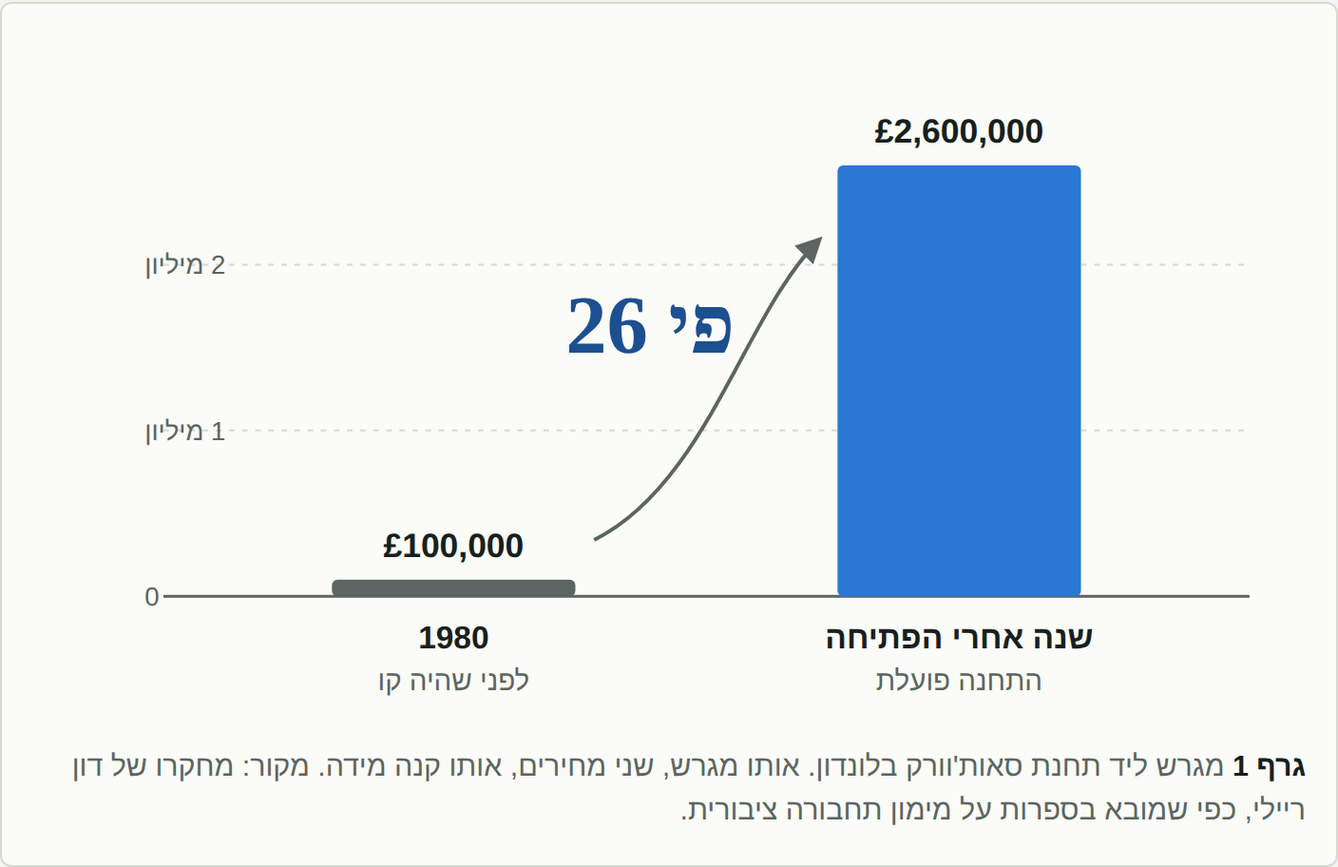
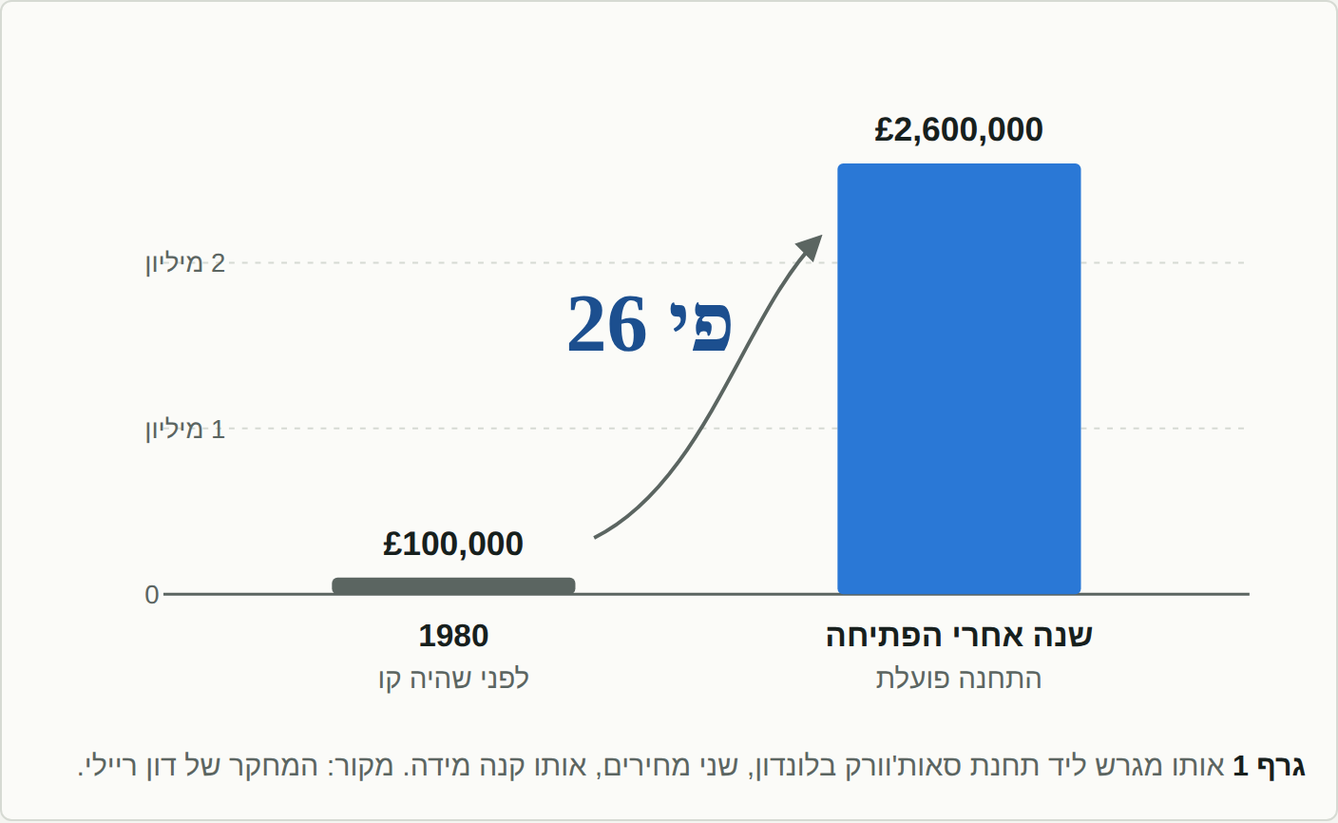
Rewrite Freiman article in a conversational voice; add voice rules to template
Claude-Session: https://claude.ai/code/session_017RskjQZSoGETticZoF5yfs

diff --git a/projects/freiman/article.html b/projects/freiman/article.html
@@ -38,7 +38,7 @@ p { margin: 0 0 1.1rem; }
 a { color: var(--metro-ink); text-decoration-thickness: 2px; text-underline-offset: 3px; }
 a:focus-visible { outline: 2px solid var(--metro); outline-offset: 2px; }
 strong { font-weight: 700; }
-ol { padding-inline-start: 1.4rem; margin: 0 0 1.2rem; display: grid; gap: .5rem; }
+ol, ul { padding-inline-start: 1.4rem; margin: 0 0 1.2rem; display: grid; gap: .5rem; }
 ol li::marker { font-family: var(--font-display); font-weight: 700; color: var(--metro-ink); }
 figure { margin: 2rem 0; background: var(--paper); border: 1px solid var(--rule); border-radius: 6px; padding: 1rem; }
 .fig-scroll { overflow-x: auto; }
@@ -87,8 +87,8 @@ svg text { font-family: var(--font-body); fill: var(--ink); }
 <main class="wrap" dir="rtl" lang="he">
   <div class="kicker">נדל"ן · קרקעות להשקעה</div>
   <h1>האדמה שחיכתה לרכבת: מה באמת קורה במתחם פריימן בראשון לציון</h1>
-  <p class="lede">שטח שסומן במשך שנים כאזור נופש, שתי תחנות מטרו מאושרות ותוכנית לכ־12,000 דירות. מה צריך לדעת לפני שקונים שם מטר, ולמה השאלה החשובה היא בכלל לא "איפה".</p>
-  <p>דון ריילי היה איש עסקים לונדוני שהחזיק נכסים בסאות'וורק, רובע בגדה הדרומית של התמזה שבמשך שנים אף אחד לא התרגש ממנו. ב־1999 נפתחה שם תחנה חדשה של קו ג'ובילי, וריילי גילה שהוא עשיר יותר. הרבה יותר.</p><p>ואז הוא עשה משהו שאנשי נדל"ן כמעט אף פעם לא עושים. הוא ישב וכתב ספר שלם שמסביר למה זה לא הוגן.</p><p>בין הדוגמאות שאסף: מגרש ליד התחנה בסאות'וורק, שנקנה ב־1980 ב־100 אלף ליש"ט. שנה אחרי שהקו נפתח, הוא נמכר ב־2.6 מיליון. פי 26. הטענה של ריילי הייתה פשוטה: משלמי המסים בנו את הקו, ובעלי הקרקע לקחו את הכסף.</p><figure id="fig1"><div class="fig-scroll">
+  <p class="lede">שתי תחנות מטרו, כ־12,000 דירות, ושטח שעד לא מזמן סומן כמקום לפיקניקים. כל מה שחבר שמבין בקרקעות היה מספר לכם על פריימן, לפני שאתם קונים שם מטר אחד.</p>
+  <p>בואו נתחיל דווקא בלונדון, כי שם הסיפור הזה כבר נגמר, ואפשר לראות איך.</p><p>בסוף שנות התשעים חי שם איש עסקים בשם דון ריילי, שהחזיק כמה נכסים בסאות'וורק. אם לא שמעתם על סאות'וורק, זה בסדר גמור. גם רוב הלונדונים לא ממש התעניינו בה בזמנו. רובע בגדה הדרומית של התמזה, מהסוג שעוברים דרכו בדרך למקום אחר.</p><p>ואז, ב־1999, נפתחה שם תחנה חדשה של קו ג'ובילי. וריילי, בלי להזיז אצבע, גילה שהוא עשיר. ממש עשיר.</p><p>רוב האנשים במצב כזה היו פותחים שמפניה. ריילי עשה משהו הרבה יותר מוזר: הוא ישב וכתב ספר שלם שמסביר למה זה לא הוגן. משלמי המסים שילמו על הקו, הוא טען, ובעלי הקרקע, כמוהו, לקחו את הרווח. אדם שמתלונן על זה שהוא התעשר. רק באנגליה.</p><p>בין הדוגמאות שהביא בספר היה מגרש אחד ליד התחנה. ב־1980 הוא נקנה ב־100 אלף ליש"ט. שנה אחרי שהקו נפתח, מישהו שילם עליו 2.6 מיליון. פי 26, על אותה חתיכת אדמה.</p><figure id="fig1"><div class="fig-scroll">
 <svg class="fit" viewBox="0 0 680 370" role="img" aria-labelledby="f1t">
   <title id="f1t">מגרש ליד תחנת סאות'וורק: 100 אלף ליש"ט ב־1980, 2.6 מיליון ליש"ט שנה אחרי פתיחת הקו</title>
   <line class="grid" x1="70" x2="650" y1="211.5" y2="211.5"/><text class="tick" x="60" y="216.5" text-anchor="end">1 מיליון</text><line class="grid" x1="70" x2="650" y1="123.1" y2="123.1"/><text class="tick" x="60" y="128.1" text-anchor="end">2 מיליון</text>
@@ -109,7 +109,7 @@ svg text { font-family: var(--font-body); fill: var(--ink); }
   <path class="arrow" d="M300 270 C 360 240, 380 150, 420 110" marker-end="url(#ah)"/>
   <text class="big" x="330" y="170" text-anchor="middle">פי 26</text>
   <defs><marker id="ah" viewBox="0 0 10 10" refX="8" refY="5" markerWidth="7" markerHeight="7" orient="auto"><path class="ahead" d="M0 0L10 5L0 10z"/></marker></defs>
-</svg></div><figcaption><span class="fig-n">גרף 1</span> מגרש ליד תחנת סאות'וורק בלונדון. אותו מגרש, שני מחירים, אותו קנה מידה. מקור: מחקרו של דון ריילי, כפי שמובא בספרות על מימון תחבורה ציבורית.</figcaption></figure><p>עכשיו, אני יודע. ראשון לציון היא לא לונדון. אין בה ביג בן, ואף תייר עוד לא עצר להצטלם בצומת שלה. אבל לכסף שריילי תיאר לא ממש אכפת איזה מבטא יש לראש העירייה. הכלל עובד בכל שפה: כשהמדינה מניחה מסילה, הקרקע שלידה מתעוררת.</p><p>ובצפון ראשון לציון המדינה אישרה שתי תחנות כאלה. באותו מתחם.</p><p>רק שעל כל סיפור כמו של ריילי יש עשרות אנשים שקנו "קרקע ליד תחנה עתידית" ומחכים עד היום. ההבדל ביניהם הוא לא מזל, וגם לא המרחק מהתחנה. למעשה, בפריימן דווקא מי שקונה הכי קרוב לתחנה עלול לעשות את הטעות הכי יקרה. נגיע לזה.</p><h2>פארק עתידי, עם סימן שאלה גדול</h2><p>כדי להבין למה פריימן מעניין עכשיו, צריך להבין למה הוא היה תקוע עד עכשיו.</p><p>בתוכנית המתאר המחוזית, השטח סומן כאזור נופש מטרופוליני. בתרגום לעברית של יזמים: פארק עתידי. ואף אחד לא ממהר לבנות על פארק עתידי.</p><p>אמנם בתמ"א 35, התוכנית הארצית, השטח כבר הוגדר כ"מרקם עירוני". אבל בין הגדרה על הנייר לבין דירה עם מפתח יש בישראל מרחק שנמדד לפעמים בדורות. "בקרוב" היא אצלנו יחידת זמן גמישה מאוד.</p><h2>שלוש החלטות שהעירו את השטח</h2><p>מה שהשתנה בפריימן הוא רצף של החלטות רשמיות, וכל אחת מהן כבדה מקודמתה.</p><p><strong>מרץ 2022.</strong> עיריית ראשון לציון חותמת על הסכם שיתוף פעולה עם דירה להשכיר, חברה ממשלתית שיש לה סמכויות של יזם תכנוני.</p><p><strong>דצמבר 2024.</strong> החלטת ממשלה. המתחם יקודם כתמ"ל 3015, תוכנית מועדפת לדיור. בפועל זה אומר מסלול מזורז, בעידוד המדינה.</p><p><strong>מאי 2025.</strong> תמ"א 70, תוכנית המתאר הארצית למטרו, מאושרת. והיא גוברת על כל מה שנקבע לפניה.</p><p>מאז, <a href="https://properteam-il.com/project/%D7%A4%D7%A8%D7%99%D7%99%D7%9E%D7%9F/">מתחם פריימן ראשון לציון</a> נמצא רשמית על שולחן התכנון של המדינה.</p><figure id="fig2"><div class="fig-scroll">
+</svg></div><figcaption><span class="fig-n">גרף 1</span> אותו מגרש ליד תחנת סאות'וורק בלונדון, שני מחירים, אותו קנה מידה. מקור: המחקר של דון ריילי.</figcaption></figure><p>ועכשיו אתם בטח שואלים מה הקשר לראשון לציון. אז כן, אני יודע. ראשון לציון היא לא לונדון. אין בה ביג בן, ואת החלפת המשמרות היחידה בעיר רואים בכניסה לקניון.</p><p>אבל לחוק של ריילי לא אכפת איזה מבטא יש לראש העירייה. הוא עובד בכל מקום באותה צורה: המדינה מניחה מסילה, והאדמה שלידה מתעוררת. ובצפון ראשון לציון, בשטח שנקרא מתחם פריימן, המדינה אישרה שתי תחנות מטרו. שתיים. באותו מתחם.</p><p>לפני שאתם רצים לחפש מוכרים, רגע. כי על כל דון ריילי יש בעולם עשרות אנשים שקנו "קרקע ליד תחנה עתידית" ומחכים עד היום. חלקם כבר מחכים בשביל הנכדים. ומה שמבדיל ביניהם הוא לא מזל, וגם לא המרחק מהתחנה. בפריימן, דווקא מי שמתעקש לקנות הכי קרוב לתחנה עלול לעשות את הטעות הכי יקרה.</p><p>אני מבטיח שנגיע לזה. קודם צריך להבין איך הגענו לכאן.</p><h2>פארק, על הנייר</h2><p>הסיבה שבכלל יש היום, באמצע גוש דן, שטח פתוח כזה שאף אחד לא בנה עליו, פשוטה למדי. בתוכנית המחוזית הוא סומן כאזור נופש מטרופוליני. או בשפה של בני אדם: פארק עתידי. ומי בונה על פארק עתידי? אף אחד. אז השטח עמד, והעיר צמחה מסביבו.</p><p>למען ההגינות, בתמ"א 35, התוכנית הארצית, השטח כבר הוגדר כ"מרקם עירוני". אבל מי שמכיר קצת את התכנון בישראל יודע שבין "מרקם עירוני" על הנייר לבין דירה עם מפתח יכולות להתחלף כמה ממשלות. ובקצב שלנו, זה לא לוקח הרבה זמן.</p><p>ואז, בתוך שלוש שנים בערך, משהו זז.</p><h2>שלוש החלטות, ואחת מהן ממש מהירה</h2><p>זה התחיל במרץ 2022, כשעיריית ראשון לציון חתמה על הסכם שיתוף פעולה עם דירה להשכיר. אם השם לא אומר לכם הרבה, תחשבו עליה כעל היזם של המדינה: חברה ממשלתית שיש לה סמכות לקדם תכנון של מתחמים שלמים, במקום לחכות שמישהו אחר יעשה את זה.</p><p>בדצמבר 2024 הגיעה החלטת ממשלה: המתחם יקודם כתמ"ל 3015, תוכנית מועדפת לדיור. "מועדפת" זו לא סתם מחמאה. זה מסלול מזורז, שהמדינה עצמה דוחפת.</p><p>ובמאי 2025 אושרה תמ"א 70, תוכנית המתאר הארצית למטרו. והיא, וזה הפרט החשוב, גוברת על כל מה שנקבע לפניה. כולל הפארק העתידי.</p><p>תסתכלו רגע על הקצב:</p><figure id="fig2"><div class="fig-scroll">
 <svg viewBox="0 0 720 250" role="img" aria-labelledby="f2t">
   <title id="f2t">ציר זמן: הסכם במרץ 2022, החלטת ממשלה בדצמבר 2024, אישור תמ"א 70 במאי 2025. השלב הבא ללא מועד.</title>
   <line class="axis-strong" x1="50" x2="581.4" y1="150" y2="150"/>
@@ -137,7 +137,7 @@ svg text { font-family: var(--font-body); fill: var(--ink); }
   <text class="span" x="268.5" y="220" text-anchor="middle">33 חודשים</text>
   <path class="brace hot" d="M465.3 188 v8 H522.3 v-8"/>
   <text class="span hot-t" x="492.8" y="220" text-anchor="middle">5 חודשים</text>
-</svg></div><figcaption><span class="fig-n">גרף 2</span> ההחלטות שהזיזו את פריימן, על ציר זמן בקנה מידה. מהחלטת הממשלה ועד תמ"א 70 עברו חמישה חודשים.</figcaption></figure><p>שימו לב לקצב. מההסכם עם העירייה ועד החלטת הממשלה עברו כמעט שלוש שנים. מהחלטת הממשלה ועד תמ"א 70, חמישה חודשים. במונחים של תכנון בישראל, זו כמעט ריצה.</p><p>ועדיין, החלטות ממשלה יש הרבה, וחלק נכבד מהן חי בשקט במגירה. מה יקבע אם משהו באמת יזוז בשטח? לזה נחזור.</p><h2>מה תמ"א 70 עושה לפריימן</h2><p>המטרו של גוש דן הוא פרויקט בקנה מידה שישראל עוד לא ראתה: שלושה קווים, כ־150 קילומטר, 109 תחנות ב־24 רשויות, וצפי של כ־2 מיליון נוסעים ביום. תמ"א 70 היא התוכנית שקובעת מה ייבנה סביב התחנות האלה.</p><p>בפריימן זה מתורגם לשלושה דברים:</p><p><strong>שתי תחנות.</strong> "ראשון לציון יוסף בורג" (תחנה 37) ו"ראשון לציון הרצוג" (תחנה 38). שתיהן בתחום המתחם או בסמוך לו, ושתיהן מחברות את התושבים למרכז גוש דן תוך דקות.</p><p><strong>רח"ק 5 לפחות.</strong> רח"ק הוא היחס בין שטח הבנייה לשטח הקרקע. רח"ק 5 אומר שעל כל דונם קרקע ייבנו לפחות 5 דונם של שטח בנוי. זה רף מינימום, ומוסדות התכנון רשאים לאשר יותר.</p><p><strong>כ־12,000 יחידות דיור</strong> לצד פארק רובעי גדול. כלומר, שכונה בגודל של עיר קטנה.</p><p>מחקרים על קווי רכבת בעולם מראים שערך הקרקע סביב תחנה עולה משלושה מקורות: הנגישות שהתחנה יוצרת, שינוי הייעוד של הקרקע, ותוספת זכויות הבנייה. ברוב המקומות מקבלים אחד או שניים. בפריימן שלושתם קורים באותו מקום, באותו זמן.</p><p>אבל תמ"א 70 עשתה עוד משהו, שהרבה פחות אנשים מדברים עליו. היא חילקה את המתחם לשניים.</p><h2>המפה שכל קונה בפריימן צריך להכיר</h2><p>לפי תמ"א 70, חלק מהמתחם סומן כאזור פיתוח: מגורים, תעסוקה ומסחר. חלק אחר סומן כאזור ירוק, שטח פתוח. הכלל הראשון פשוט: קונים רק בתוך קו הפיתוח. חלקה באזור הירוק יכולה להיות זולה מאוד, ומסיבה טובה.</p><p>הכלל השני נוגע לחלק המזרחי של המתחם. הוא מוטה משרדים ולכן שוויו נמוך יותר, והוא גם לא חלק מהתוכנית שהמדינה מקדמת. ככל הנראה הוא יפותח בנפרד, ובהמשך. "בהמשך", כאמור, היא יחידת זמן גמישה.</p><p>והכלל השלישי הוא זה שמפתיע את רוב הקונים.</p><p>פריימן היא תוכנית של איחוד וחלוקה מחדש. כל החלקות במתחם נכנסות לסל אחד גדול, והתוכנית מחלקת אותן מחדש לפי השווי היחסי של כל אחת. מי שהחזיק קרקע מקבל "מגרש תמורה", אבל לא בהכרח במקום שבו הייתה החלקה שלו.</p><figure id="fig3"><div class="fig-scroll">
+</svg></div><figcaption><span class="fig-n">גרף 2</span> ההחלטות שהזיזו את פריימן, על ציר זמן בקנה מידה. מהחלטת הממשלה ועד תמ"א 70 עברו חמישה חודשים.</figcaption></figure><p>מההסכם ועד החלטת הממשלה עברו כמעט שלוש שנים, שזה, בואו נהיה כנים, קצב ישראלי די סטנדרטי. אבל מהחלטת הממשלה ועד תמ"א 70 עברו חמישה חודשים. בתכנון הישראלי, חמישה חודשים זה בערך הזמן שלוקח לקבוע פגישה.</p><p>ככה <a href="https://properteam-il.com/project/%D7%A4%D7%A8%D7%99%D7%99%D7%9E%D7%9F/">מתחם פריימן ראשון לציון</a> עבר, בתוך זמן קצר, משטח של "אולי פעם" לשטח שיש עליו החלטת ממשלה וחותמת של תוכנית ארצית.</p><p>אבל לפני שמתלהבים, שווה לזכור שגם החלטות ממשלה הן לא קסם. לא מעט מהן נחות היום בשקט באיזו מגירה. אז מה יקבע אם פריימן באמת יזוז? תחזיקו את השאלה הזו. נחזור אליה בסוף, כי היא בעצם השאלה הכי חשובה במאמר.</p><h2>שלוש מתנות מהמטרו</h2><p>כדי להבין למה תמ"א 70 משמעותית כל כך, צריך להבין על מה מדובר. המטרו של גוש דן הוא פרויקט בסדר גודל שעוד לא היה כאן: שלושה קווים, כ־150 קילומטר, 109 תחנות ב־24 רשויות, וצפי של כ־2 מיליון נוסעים ביום. תמ"א 70 היא התוכנית שמחליטה מה ייבנה מסביב לתחנות האלה. ובפריימן, היא חילקה שלוש מתנות.</p><p>הראשונה היא שתי תחנות: "ראשון לציון יוסף בורג" ו"ראשון לציון הרצוג". הן יחברו את מי שיגור שם למרכז גוש דן תוך כמה דקות. מי שנסע פעם מראשון לתל אביב בשמונה בבוקר יודע ש"תוך כמה דקות" זה משפט שעד היום נשמע כמו מדע בדיוני.</p><p>המתנה השנייה היא רח"ק 5 לפחות. רח"ק זה היחס בין מה שבונים לבין גודל הקרקע. רח"ק 5 אומר שעל כל דונם אדמה ייבנו לפחות 5 דונם של דירות, משרדים וחנויות. וזה רק הרף התחתון. מוסדות התכנון יכולים לאשר גם יותר.</p><p>והשלישית: כ־12,000 יחידות דיור לצד פארק רובעי גדול. כלומר, יהיה פארק. רק שעכשיו יהיו לו גם שכנים.</p><p>ועכשיו תחזרו רגע ללונדון. חוקרים שבדקו קווי רכבת בעולם מצאו שהערך של קרקע ליד תחנה מגיע משלושה מקורות: הנגישות שהתחנה נותנת, שינוי הייעוד של הקרקע, ותוספת זכויות בנייה. ברוב המקומות מקבלים אחד מהם, אולי שניים. בפריימן מקבלים את שלושתם באותה חבילה.</p><p>אבל תמ"א 70 עשתה בפריימן עוד משהו, שמדברים עליו הרבה פחות. היא חילקה את המתחם לשניים.</p><h2>המפה שכדאי לראות לפני שחותמים</h2><p>לפי תמ"א 70, חלק מהשטח סומן כאזור פיתוח, שבו יהיו מגורים, תעסוקה ומסחר. חלק אחר סומן כאזור ירוק. ואם יציעו לכם חלקה באזור הירוק במחיר שנראה מצחיק, אל תצחקו. יש לזה סיבה. הכלל הראשון בפריימן: קונים רק בתוך קו הפיתוח.</p><p>הכלל השני נוגע לחלק המזרחי של המתחם. הוא מוטה משרדים, ולכן שווה פחות. חוץ מזה, הוא בכלל לא חלק מהתוכנית שהמדינה מקדמת, וכנראה יפותח בנפרד, מתישהו בהמשך. ו"בהמשך", כמו שכבר הבנו, זו יחידת זמן גמישה מאוד בישראל.</p><p>הכלל השלישי הוא זה שמבלבל כמעט את כולם, אז נעבור עליו לאט.</p><p>פריימן היא תוכנית של איחוד וחלוקה מחדש. תדמיינו שכל בעלי הקרקע במתחם שמים את החלקות שלהם בקופה אחת גדולה. המתכננים מחליטים איפה יעברו הכבישים, איפה יהיה הפארק ואיפה מבני הציבור, ואז מחלקים את מה שנשאר בין כולם, לפי השווי היחסי של מה שכל אחד הכניס. כל אחד מקבל "מגרש תמורה". רק שלא בהכרח איפה שהחלקה שלו הייתה.</p><figure id="fig3"><div class="fig-scroll">
 <svg viewBox="0 0 720 260" role="img" aria-labelledby="f3t">
   <title id="f3t">איחוד וחלוקה: שש חלקות נכנסות לסל אחד ומחולקות מחדש למגרשי תמורה במיקומים אחרים, לצד שטח ציבורי</title>
   <text class="lbl" x="597.0" y="40" text-anchor="middle">1. לפני</text>
@@ -153,7 +153,7 @@ svg text { font-family: var(--font-body); fill: var(--ink); }
   <text class="note" x="597.0" y="225" text-anchor="middle">חלקה א צמודה לתחנה</text>
   <text class="note" x="137.0" y="225" text-anchor="middle">מגרש התמורה של א במקום אחר</text>
   <defs><marker id="ah3" viewBox="0 0 10 10" refX="8" refY="5" markerWidth="7" markerHeight="7" orient="auto"><path class="ahead" d="M0 0L10 5L0 10z"/></marker></defs>
-</svg></div><figcaption><span class="fig-n">גרף 3</span> איחוד וחלוקה, בפשטות. המיקום של החלקה שקניתם לא קובע את המיקום של מגרש התמורה. איור להמחשה בלבד.</figcaption></figure><p>המשמעות: אי אפשר להסיק שמגרש התמורה יהיה בדיוק במיקום של הקרקע שקניתם. ואי אפשר להסיק שקרקע קרובה לתחנה שווה יותר מקרקע רחוקה ממנה.</p><p>ועכשיו, הטעות היקרה שהבטחנו. חלקה שיושבת על התחנה עצמה היא דווקא בעלת סיכון גבוה יותר. היא חשופה להפקעה, או להפקעה זמנית לטובת עבודות המטרו. מי שמשלם פרמיה כדי לקנות "על התחנה", עלול לשלם יותר על קרקע עם יותר סיכון. אנחנו ממליצים להימנע מזה.</p><h2>כמה מטרים צריך בפריימן</h2><p>כאן נכנס החשבון, ונעשה אותו בזהירות.</p><p>דוחות השמאי נכון להיום מדברים על צפיפות של 15 יחידות דיור לדונם ברוטו. דונם הוא 1,000 מטר, ולכן כדי להחזיק את המקבילה ליחידת דיור אחת ממוצעת, מה שנקרא "יחידה תבעית", צריך כ־67 מטר קרקע.</p><figure id="fig4"><div class="fig-scroll">
+</svg></div><figcaption><span class="fig-n">גרף 3</span> איחוד וחלוקה, בפשטות. המיקום של החלקה שקניתם לא קובע את המיקום של מגרש התמורה. איור להמחשה בלבד.</figcaption></figure><p>כלומר, אם קניתם חלקה בפינה הכי יפה של המתחם, אין שום הבטחה שהמגרש שתקבלו יהיה באותה פינה. ומאותה סיבה, קרקע קרובה לתחנה לא שווה אוטומטית יותר מקרקע רחוקה ממנה.</p><p>ועכשיו, כמו שהבטחתי, הטעות היקרה. יש אנשים שמשלמים יותר כדי לקנות חלקה שיושבת בדיוק על התחנה, כי זה נשמע הכי בטוח. בפועל, זה הכי פחות בטוח. קרקע שעליה תיבנה התחנה חשופה יותר להפקעה, או לפחות להפקעה זמנית בזמן העבודות. כלומר, אתם משלמים פרמיה, ומקבלים בתמורה יותר סיכון. לא בדיוק העסקה שחלמתם עליה.</p><h2>אז כמה אדמה צריך?</h2><p>כאן מגיע החלק עם המחשבון, ואני אעשה אותו בזהירות.</p><p>דוחות השמאי מדברים כרגע על צפיפות של 15 יחידות דיור לדונם ברוטו. דונם הוא 1,000 מטר, אז אם מחלקים, יוצא שכדי להחזיק את המקבילה ליחידת דיור ממוצעת אחת, מה שנקרא בשפה המקצועית "יחידה תבעית", צריך כ־67 מטר קרקע.</p><figure id="fig4"><div class="fig-scroll">
 <svg class="fit" viewBox="0 0 520 330" role="img" aria-labelledby="f4t">
   <title id="f4t">דונם אחד, 1,000 מ"ר, מחולק ל־15 יחידות תבעיות של כ־67 מ"ר כל אחת</title>
   <text class="big" x="476.0" y="58" text-anchor="start">15</text>
@@ -163,5 +163,5 @@ svg text { font-family: var(--font-body); fill: var(--ink); }
   <g class="hit"><title>יחידה תבעית: כ־67 מ"ר קרקע</title><rect class="plot" x="44.0" y="96" width="84" height="56" rx="2"/></g><g class="hit"><title>יחידה תבעית: כ־67 מ"ר קרקע</title><rect class="plot" x="131.0" y="96" width="84" height="56" rx="2"/></g><g class="hit"><title>יחידה תבעית: כ־67 מ"ר קרקע</title><rect class="plot" x="218.0" y="96" width="84" height="56" rx="2"/></g><g class="hit"><title>יחידה תבעית: כ־67 מ"ר קרקע</title><rect class="plot" x="305.0" y="96" width="84" height="56" rx="2"/></g><g class="hit"><title>יחידה תבעית: כ־67 מ"ר קרקע</title><rect class="bar" x="392.0" y="96" width="84" height="56" rx="2"/><text class="cell-t on-bar" x="434.0" y="130.0" text-anchor="middle">67 מ"ר</text></g><g class="hit"><title>יחידה תבעית: כ־67 מ"ר קרקע</title><rect class="plot" x="44.0" y="155" width="84" height="56" rx="2"/></g><g class="hit"><title>יחידה תבעית: כ־67 מ"ר קרקע</title><rect class="plot" x="131.0" y="155" width="84" height="56" rx="2"/></g><g class="hit"><title>יחידה תבעית: כ־67 מ"ר קרקע</title><rect class="plot" x="218.0" y="155" width="84" height="56" rx="2"/></g><g class="hit"><title>יחידה תבעית: כ־67 מ"ר קרקע</title><rect class="plot" x="305.0" y="155" width="84" height="56" rx="2"/></g><g class="hit"><title>יחידה תבעית: כ־67 מ"ר קרקע</title><rect class="plot" x="392.0" y="155" width="84" height="56" rx="2"/></g><g class="hit"><title>יחידה תבעית: כ־67 מ"ר קרקע</title><rect class="plot" x="44.0" y="214" width="84" height="56" rx="2"/></g><g class="hit"><title>יחידה תבעית: כ־67 מ"ר קרקע</title><rect class="plot" x="131.0" y="214" width="84" height="56" rx="2"/></g><g class="hit"><title>יחידה תבעית: כ־67 מ"ר קרקע</title><rect class="plot" x="218.0" y="214" width="84" height="56" rx="2"/></g><g class="hit"><title>יחידה תבעית: כ־67 מ"ר קרקע</title><rect class="plot" x="305.0" y="214" width="84" height="56" rx="2"/></g><g class="hit"><title>יחידה תבעית: כ־67 מ"ר קרקע</title><rect class="plot" x="392.0" y="214" width="84" height="56" rx="2"/></g>
   <path class="brace" d="M44.0 284 v8 H476.0 v-8"/>
   <text class="lbl" x="260" y="316" text-anchor="middle">דונם אחד = 1,000 מ"ר</text>
-</svg></div><figcaption><span class="fig-n">גרף 4</span> כמה קרקע שקולה ליחידת דיור אחת, לפי צפיפות של 15 יחידות לדונם ברוטו. בחלקה עם הפקעה צריך יותר.</figcaption></figure><p>בחלקה שחלה עליה הפקעה, או שלא כולה נמצאת בתוכנית, צריך יותר מטרים כדי להגיע לאותה יחידה.</p><p>ומה עם מחירים? כאן אנחנו נעצור. המחיר למטר בפריימן משתנה לפי המיקום בתוך המתחם, לפי המשווק ולפי התזמון, והשוק הזה תנודתי מאוד. מי שנותן לכם היום מספר מדויק לשווי העתידי של הקרקע, יודע משהו שאף שמאי לא יודע. או שהוא מוכר לכם משהו.</p><h2>השאלה האמיתית: מי מזיז את פריימן</h2><p>הבטחנו לחזור לשאלה מה מבדיל בין מי שהרוויח ממטרו לבין מי שעדיין מחכה. הנה התשובה: קרקע לא הופכת לדירות לבד. מישהו צריך לדחוף אותה, בכל שלב, ולאורך שנים.</p><p>ברמת המדינה, בפריימן יש מי שדוחף. דירה להשכיר היא גוף ממשלתי עם סמכויות יזמות תכנונית, והחלטת הממשלה מדצמבר 2024 שמה את המתחם במסלול המועדף. זה לא מבטיח לוח זמנים, אבל זה ההבדל בין תוכנית שמישהו אחראי עליה לבין תוכנית שכולם מחכים לה.</p><p>ברמת הקונה, כאן רוב האנשים לא מסתכלים. עסקת קרקע כאן היא קודם כל כרטיס כניסה להסכם שיתוף בין בעלי הקרקע. ושלושה דברים קובעים כמה הכרטיס הזה שווה:</p><ol><li><strong>גודל ההסכם.</strong> הסכם גדול, שמכיל לפחות 50 עד 60 יחידות תבעיות, מחזיק כוח מול מוסדות התכנון ומול יזמים בהמשך.</li><li><strong>נציגות תכנונית מקצועית.</strong> מי שילווה את הקונים בכל שלב, מהתכנון ועד הקצאת מגרשי התמורה.</li><li><strong>ניסיון.</strong> מישהו שכבר הוביל פרויקטים כאלה עד הסוף, ולא רק התחיל אותם.</li></ol><p>מה קורה כשהחוליה הזו חסרה? אחת מחברות הקרקע הגדולות בצפון אמריקה גייסה מיליארדי דולרים מעשרות אלפי משקיעים, ברחבי העולם. הקרקע הייתה שם. מי שיזיז אותה, פחות. ב־2017 חלק מחברות הקבוצה נכנסו להליך של הגנה מנושים, ופנסיונר אחד שהשקיע 41 אלף דולר מצא את עצמו עם כ־9,300.</p><p>אז לפני שאתם שואלים "איפה הקרקע", תשאלו "מי מאחוריה".</p><h2>חמש שאלות לפני שקונים מטר בפריימן</h2><ol><li>האם החלקה נמצאת בתוך קו הפיתוח של תמ"א 70, ולא באזור הירוק?</li><li>האם היא בחלק המזרחי, מוטה המשרדים, שלא נכלל בתוכנית שהמדינה מקדמת?</li><li>האם היא יושבת על אחת מתחנות המטרו?</li><li>האם חלה עליה הפקעה, וכמה מטרים צריך בפועל כדי להגיע ליחידה תבעית שלמה?</li><li>מי מוביל את הקבוצה, כמה יחידות יש בהסכם השיתוף, ומה הוא השלים בעבר?</li></ol><h2>בחזרה ללונדון</h2><p>דון ריילי כתב ספר שלם כדי להתלונן שהקרקע שלו התעשרה בלי שעשה דבר. בלונדון של שנות התשעים זה עבד ככה: המדינה בנתה, ובעלי הקרקע ישבו בבית.</p><p>מתחם פריימן ראשון לציון עובד אחרת. יש בו תחנות מאושרות, תוכנית ארצית וחברה ממשלתית שמקדמת אותו. אבל בין שטח שסומן פעם כפארק לבין שכונה של 12,000 דירות, מישהו יצטרך לעשות את העבודה. ואת זהות ה"מישהו" הזה כדאי לבדוק לפני שחותמים, לא אחרי.</p><p>את התחנות המדינה כבר אישרה. את השאר תצטרכו לבדוק בעצמכם.</p><p class="disclaimer">המידע בכתבה הוא כללי ואינו מהווה ייעוץ השקעות. השקעה בקרקע כרוכה בסיכון, ומומלץ להיוועץ באנשי מקצוע לפני כל רכישה.</p>
+</svg></div><figcaption><span class="fig-n">גרף 4</span> כמה קרקע שקולה ליחידת דיור אחת, לפי צפיפות של 15 יחידות לדונם ברוטו. בחלקה עם הפקעה צריך יותר.</figcaption></figure><p>ואם על החלקה חלה הפקעה, או שרק חלק ממנה נכנס לתוכנית, צריך יותר מטרים כדי להגיע לאותה יחידה. די הגיוני.</p><p>ומה עם מחירים? פה אני עוצר, ובכוונה. המחיר למטר בפריימן תלוי איפה בדיוק במתחם, אצל מי קונים ומתי, והשוק הזה זז מהר. אז אם מישהו כבר היום נותן לכם מספר מדויק לכמה הקרקע תהיה שווה בעוד כמה שנים, יש שתי אפשרויות. או שהוא יודע משהו שאף שמאי בארץ לא יודע, או שהוא מנסה למכור לכם משהו. אני מהמר על השנייה.</p><h2>בחזרה לשאלה החשובה: מי מזיז את זה?</h2><p>הבטחתי לחזור לשאלה מה מבדיל בין דון ריילי לבין כל מי שעדיין עומד ומחכה ליד תחנה שלא הגיעה. התשובה, כמעט תמיד, היא זו: קרקע לא הופכת לשכונה לבד. מישהו צריך לדחוף אותה, בכל שלב, במשך שנים, מול ועדות, שמאים ויזמים.</p><p>בפריימן, ברמת המדינה, יש מי שדוחף. דירה להשכיר מקדמת את התכנון, והחלטת הממשלה שמה את המתחם במסלול המהיר. זה לא נותן לוח זמנים מובטח, אף אחד לא נותן כזה, אבל זה ההבדל בין תוכנית שיש לה אבא לבין תוכנית יתומה.</p><p>ויש עוד רמה, וכאן רוב הקונים לא מסתכלים בכלל. כשאתם קונים קרקע בפריימן, מה שאתם באמת קונים הוא כרטיס כניסה להסכם שיתוף עם עוד בעלי קרקע. ושלושה דברים קובעים אם הכרטיס הזה שווה משהו:</p><ul><li><strong>גודל.</strong> הסכם רציני מכיל לפחות 50 עד 60 יחידות תבעיות. בקבוצה קטנה מדי, אף אחד לא ממש שומע אתכם.</li><li><strong>ליווי.</strong> נציגות תכנונית מקצועית, שיודעת לעבוד מול מוסדות התכנון ולשמור על האינטרס שלכם בכל שלב.</li><li><strong>ניסיון.</strong> מישהו שכבר לקח פרויקטים כאלה עד הסוף, ולא רק התחיל אותם.</li></ul><p>רוצים לראות מה קורה כשהחוליה הזו חסרה? אחת מחברות הקרקע הגדולות בצפון אמריקה גייסה מיליארדי דולרים מעשרות אלפי משקיעים בכל העולם. הקרקעות היו אמיתיות, המפות היו יפות, ומי שיהפוך אותן לשכונות פשוט לא היה שם. ב־2017 חלק מחברות הקבוצה נכנסו להליך של הגנה מפני נושים, ופנסיונר אחד שהשקיע שם 41 אלף דולר גילה שנשארו לו כ־9,300.</p><p>אז הטיפ הכי חשוב במאמר הזה הוא בעצם שאלה. לפני ששואלים "איפה הקרקע", שואלים "מי מאחוריה".</p><h2>צ'קליסט קצר לפני שחותמים</h2><p>אם אתם שוקלים לקנות בפריימן, הנה חמש שאלות שכדאי שיהיו לכם תשובות עליהן. רצוי בכתב.</p><ol><li>האם החלקה בתוך קו הפיתוח של תמ"א 70, או באזור הירוק?</li><li>האם היא בחלק המזרחי, זה של המשרדים, שלא נכלל בתוכנית של המדינה?</li><li>האם היא יושבת בדיוק על אחת התחנות?</li><li>האם יש עליה הפקעה, וכמה מטרים צריך בפועל כדי להגיע ליחידה תבעית שלמה?</li><li>מי מוביל את הקבוצה, כמה יחידות יש בהסכם, ומה הוא כבר השלים בעבר?</li></ol><h2>ובחזרה ללונדון</h2><p>דון ריילי, אם אתם זוכרים, התעשר בלי להזיז אצבע, ואז כתב ספר שלם כדי להתלונן על זה. ככה זה עבד בלונדון של שנות התשעים: המדינה בנתה, ובעלי הקרקע ישבו בבית וחיכו.</p><p>מתחם פריימן ראשון לציון לא יעבוד ככה. יש בו כבר תחנות מאושרות, תוכנית ארצית וחברה ממשלתית שמקדמת אותו. אבל בין שטח שסומן פעם כפארק לבין שכונה של 12,000 דירות, מישהו יצטרך לעשות הרבה עבודה. וכדאי לדעת מי זה המישהו הזה לפני שחותמים, ולא אחרי.</p><p>את התחנות המדינה כבר אישרה. את כל השאר תצטרכו לבדוק בעצמכם. ואם בעוד עשרים שנה תרצו לכתוב על זה ספר, אנחנו לא נתלונן.</p><p class="disclaimer">המידע בכתבה הוא כללי ואינו מהווה ייעוץ השקעות. השקעה בקרקע כרוכה בסיכון, ומומלץ להיוועץ באנשי מקצוע לפני כל רכישה.</p>
 </main>

diff --git a/projects/freiman/build.py b/projects/freiman/build.py
@@ -148,7 +148,7 @@ def fig4():
 
 
 FIGS = {
-    "1": (fig1, "גרף 1", "מגרש ליד תחנת סאות'וורק בלונדון. אותו מגרש, שני מחירים, אותו קנה מידה. מקור: מחקרו של דון ריילי, כפי שמובא בספרות על מימון תחבורה ציבורית."),
+    "1": (fig1, "גרף 1", "אותו מגרש ליד תחנת סאות'וורק בלונדון, שני מחירים, אותו קנה מידה. מקור: המחקר של דון ריילי."),
     "2": (fig2, "גרף 2", "ההחלטות שהזיזו את פריימן, על ציר זמן בקנה מידה. מהחלטת הממשלה ועד תמ\"א 70 עברו חמישה חודשים."),
     "3": (fig3, "גרף 3", "איחוד וחלוקה, בפשטות. המיקום של החלקה שקניתם לא קובע את המיקום של מגרש התמורה. איור להמחשה בלבד."),
     "4": (fig4, "גרף 4", "כמה קרקע שקולה ליחידת דיור אחת, לפי צפיפות של 15 יחידות לדונם ברוטו. בחלקה עם הפקעה צריך יותר."),
@@ -195,6 +195,8 @@ for line in md.splitlines():
     m = re.match(r"(\d+)\. (.*)", t)
     if m:
         lst_tag = "ol"; lst.append(m.group(2)); continue
+    if t.startswith("- "):
+        lst_tag = "ul"; lst.append(t[2:]); continue
     if t.startswith("*") and t.endswith("*") and not t.startswith("**"):
         flush(); body.append(f'<p class="disclaimer">{t.strip("*")}</p>'); continue
     flush(); body.append(f"<p>{inline(t)}</p>")
@@ -242,7 +244,7 @@ p {{ margin: 0 0 1.1rem; }}
 a {{ color: var(--metro-ink); text-decoration-thickness: 2px; text-underline-offset: 3px; }}
 a:focus-visible {{ outline: 2px solid var(--metro); outline-offset: 2px; }}
 strong {{ font-weight: 700; }}
-ol {{ padding-inline-start: 1.4rem; margin: 0 0 1.2rem; display: grid; gap: .5rem; }}
+ol, ul {{ padding-inline-start: 1.4rem; margin: 0 0 1.2rem; display: grid; gap: .5rem; }}
 ol li::marker {{ font-family: var(--font-display); font-weight: 700; color: var(--metro-ink); }}
 figure {{ margin: 2rem 0; background: var(--paper); border: 1px solid var(--rule); border-radius: 6px; padding: 1rem; }}
 .fig-scroll {{ overflow-x: auto; }}

diff --git a/projects/freiman/article.md b/projects/freiman/article.md
@@ -1,124 +1,130 @@
 # האדמה שחיכתה לרכבת: מה באמת קורה במתחם פריימן בראשון לציון
 
-**שטח שסומן במשך שנים כאזור נופש, שתי תחנות מטרו מאושרות ותוכנית לכ־12,000 דירות. מה צריך לדעת לפני שקונים שם מטר, ולמה השאלה החשובה היא בכלל לא "איפה".**
+**שתי תחנות מטרו, כ־12,000 דירות, ושטח שעד לא מזמן סומן כמקום לפיקניקים. כל מה שחבר שמבין בקרקעות היה מספר לכם על פריימן, לפני שאתם קונים שם מטר אחד.**
 
 ---
 
-דון ריילי היה איש עסקים לונדוני שהחזיק נכסים בסאות'וורק, רובע בגדה הדרומית של התמזה שבמשך שנים אף אחד לא התרגש ממנו. ב־1999 נפתחה שם תחנה חדשה של קו ג'ובילי, וריילי גילה שהוא עשיר יותר. הרבה יותר.
+בואו נתחיל דווקא בלונדון, כי שם הסיפור הזה כבר נגמר, ואפשר לראות איך.
 
-ואז הוא עשה משהו שאנשי נדל"ן כמעט אף פעם לא עושים. הוא ישב וכתב ספר שלם שמסביר למה זה לא הוגן.
+בסוף שנות התשעים חי שם איש עסקים בשם דון ריילי, שהחזיק כמה נכסים בסאות'וורק. אם לא שמעתם על סאות'וורק, זה בסדר גמור. גם רוב הלונדונים לא ממש התעניינו בה בזמנו. רובע בגדה הדרומית של התמזה, מהסוג שעוברים דרכו בדרך למקום אחר.
 
-בין הדוגמאות שאסף: מגרש ליד התחנה בסאות'וורק, שנקנה ב־1980 ב־100 אלף ליש"ט. שנה אחרי שהקו נפתח, הוא נמכר ב־2.6 מיליון. פי 26. הטענה של ריילי הייתה פשוטה: משלמי המסים בנו את הקו, ובעלי הקרקע לקחו את הכסף.
+ואז, ב־1999, נפתחה שם תחנה חדשה של קו ג'ובילי. וריילי, בלי להזיז אצבע, גילה שהוא עשיר. ממש עשיר.
+
+רוב האנשים במצב כזה היו פותחים שמפניה. ריילי עשה משהו הרבה יותר מוזר: הוא ישב וכתב ספר שלם שמסביר למה זה לא הוגן. משלמי המסים שילמו על הקו, הוא טען, ובעלי הקרקע, כמוהו, לקחו את הרווח. אדם שמתלונן על זה שהוא התעשר. רק באנגליה.
+
+בין הדוגמאות שהביא בספר היה מגרש אחד ליד התחנה. ב־1980 הוא נקנה ב־100 אלף ליש"ט. שנה אחרי שהקו נפתח, מישהו שילם עליו 2.6 מיליון. פי 26, על אותה חתיכת אדמה.
 
 > **[גרף 1: המגרש בסאות'וורק, 1980 מול שנה אחרי פתיחת הקו]**
 
-עכשיו, אני יודע. ראשון לציון היא לא לונדון. אין בה ביג בן, ואף תייר עוד לא עצר להצטלם בצומת שלה. אבל לכסף שריילי תיאר לא ממש אכפת איזה מבטא יש לראש העירייה. הכלל עובד בכל שפה: כשהמדינה מניחה מסילה, הקרקע שלידה מתעוררת.
+ועכשיו אתם בטח שואלים מה הקשר לראשון לציון. אז כן, אני יודע. ראשון לציון היא לא לונדון. אין בה ביג בן, ואת החלפת המשמרות היחידה בעיר רואים בכניסה לקניון.
 
-ובצפון ראשון לציון המדינה אישרה שתי תחנות כאלה. באותו מתחם.
+אבל לחוק של ריילי לא אכפת איזה מבטא יש לראש העירייה. הוא עובד בכל מקום באותה צורה: המדינה מניחה מסילה, והאדמה שלידה מתעוררת. ובצפון ראשון לציון, בשטח שנקרא מתחם פריימן, המדינה אישרה שתי תחנות מטרו. שתיים. באותו מתחם.
 
-רק שעל כל סיפור כמו של ריילי יש עשרות אנשים שקנו "קרקע ליד תחנה עתידית" ומחכים עד היום. ההבדל ביניהם הוא לא מזל, וגם לא המרחק מהתחנה. למעשה, בפריימן דווקא מי שקונה הכי קרוב לתחנה עלול לעשות את הטעות הכי יקרה. נגיע לזה.
+לפני שאתם רצים לחפש מוכרים, רגע. כי על כל דון ריילי יש בעולם עשרות אנשים שקנו "קרקע ליד תחנה עתידית" ומחכים עד היום. חלקם כבר מחכים בשביל הנכדים. ומה שמבדיל ביניהם הוא לא מזל, וגם לא המרחק מהתחנה. בפריימן, דווקא מי שמתעקש לקנות הכי קרוב לתחנה עלול לעשות את הטעות הכי יקרה.
 
-## פארק עתידי, עם סימן שאלה גדול
+אני מבטיח שנגיע לזה. קודם צריך להבין איך הגענו לכאן.
 
-כדי להבין למה פריימן מעניין עכשיו, צריך להבין למה הוא היה תקוע עד עכשיו.
+## פארק, על הנייר
 
-בתוכנית המתאר המחוזית, השטח סומן כאזור נופש מטרופוליני. בתרגום לעברית של יזמים: פארק עתידי. ואף אחד לא ממהר לבנות על פארק עתידי.
+הסיבה שבכלל יש היום, באמצע גוש דן, שטח פתוח כזה שאף אחד לא בנה עליו, פשוטה למדי. בתוכנית המחוזית הוא סומן כאזור נופש מטרופוליני. או בשפה של בני אדם: פארק עתידי. ומי בונה על פארק עתידי? אף אחד. אז השטח עמד, והעיר צמחה מסביבו.
 
-אמנם בתמ"א 35, התוכנית הארצית, השטח כבר הוגדר כ"מרקם עירוני". אבל בין הגדרה על הנייר לבין דירה עם מפתח יש בישראל מרחק שנמדד לפעמים בדורות. "בקרוב" היא אצלנו יחידת זמן גמישה מאוד.
+למען ההגינות, בתמ"א 35, התוכנית הארצית, השטח כבר הוגדר כ"מרקם עירוני". אבל מי שמכיר קצת את התכנון בישראל יודע שבין "מרקם עירוני" על הנייר לבין דירה עם מפתח יכולות להתחלף כמה ממשלות. ובקצב שלנו, זה לא לוקח הרבה זמן.
 
-## שלוש החלטות שהעירו את השטח
+ואז, בתוך שלוש שנים בערך, משהו זז.
 
-מה שהשתנה בפריימן הוא רצף של החלטות רשמיות, וכל אחת מהן כבדה מקודמתה.
+## שלוש החלטות, ואחת מהן ממש מהירה
 
-**מרץ 2022.** עיריית ראשון לציון חותמת על הסכם שיתוף פעולה עם דירה להשכיר, חברה ממשלתית שיש לה סמכויות של יזם תכנוני.
+זה התחיל במרץ 2022, כשעיריית ראשון לציון חתמה על הסכם שיתוף פעולה עם דירה להשכיר. אם השם לא אומר לכם הרבה, תחשבו עליה כעל היזם של המדינה: חברה ממשלתית שיש לה סמכות לקדם תכנון של מתחמים שלמים, במקום לחכות שמישהו אחר יעשה את זה.
 
-**דצמבר 2024.** החלטת ממשלה. המתחם יקודם כתמ"ל 3015, תוכנית מועדפת לדיור. בפועל זה אומר מסלול מזורז, בעידוד המדינה.
+בדצמבר 2024 הגיעה החלטת ממשלה: המתחם יקודם כתמ"ל 3015, תוכנית מועדפת לדיור. "מועדפת" זו לא סתם מחמאה. זה מסלול מזורז, שהמדינה עצמה דוחפת.
 
-**מאי 2025.** תמ"א 70, תוכנית המתאר הארצית למטרו, מאושרת. והיא גוברת על כל מה שנקבע לפניה.
+ובמאי 2025 אושרה תמ"א 70, תוכנית המתאר הארצית למטרו. והיא, וזה הפרט החשוב, גוברת על כל מה שנקבע לפניה. כולל הפארק העתידי.
 
-מאז, [מתחם פריימן ראשון לציון](https://properteam-il.com/project/%D7%A4%D7%A8%D7%99%D7%99%D7%9E%D7%9F/) נמצא רשמית על שולחן התכנון של המדינה.
+תסתכלו רגע על הקצב:
 
 > **[גרף 2: ציר הזמן. 33 חודשים מההסכם להחלטת הממשלה, 5 חודשים מההחלטה לתמ"א 70]**
 
-שימו לב לקצב. מההסכם עם העירייה ועד החלטת הממשלה עברו כמעט שלוש שנים. מהחלטת הממשלה ועד תמ"א 70, חמישה חודשים. במונחים של תכנון בישראל, זו כמעט ריצה.
+מההסכם ועד החלטת הממשלה עברו כמעט שלוש שנים, שזה, בואו נהיה כנים, קצב ישראלי די סטנדרטי. אבל מהחלטת הממשלה ועד תמ"א 70 עברו חמישה חודשים. בתכנון הישראלי, חמישה חודשים זה בערך הזמן שלוקח לקבוע פגישה.
 
-ועדיין, החלטות ממשלה יש הרבה, וחלק נכבד מהן חי בשקט במגירה. מה יקבע אם משהו באמת יזוז בשטח? לזה נחזור.
+ככה [מתחם פריימן ראשון לציון](https://properteam-il.com/project/%D7%A4%D7%A8%D7%99%D7%99%D7%9E%D7%9F/) עבר, בתוך זמן קצר, משטח של "אולי פעם" לשטח שיש עליו החלטת ממשלה וחותמת של תוכנית ארצית.
 
-## מה תמ"א 70 עושה לפריימן
+אבל לפני שמתלהבים, שווה לזכור שגם החלטות ממשלה הן לא קסם. לא מעט מהן נחות היום בשקט באיזו מגירה. אז מה יקבע אם פריימן באמת יזוז? תחזיקו את השאלה הזו. נחזור אליה בסוף, כי היא בעצם השאלה הכי חשובה במאמר.
 
-המטרו של גוש דן הוא פרויקט בקנה מידה שישראל עוד לא ראתה: שלושה קווים, כ־150 קילומטר, 109 תחנות ב־24 רשויות, וצפי של כ־2 מיליון נוסעים ביום. תמ"א 70 היא התוכנית שקובעת מה ייבנה סביב התחנות האלה.
+## שלוש מתנות מהמטרו
 
-בפריימן זה מתורגם לשלושה דברים:
+כדי להבין למה תמ"א 70 משמעותית כל כך, צריך להבין על מה מדובר. המטרו של גוש דן הוא פרויקט בסדר גודל שעוד לא היה כאן: שלושה קווים, כ־150 קילומטר, 109 תחנות ב־24 רשויות, וצפי של כ־2 מיליון נוסעים ביום. תמ"א 70 היא התוכנית שמחליטה מה ייבנה מסביב לתחנות האלה. ובפריימן, היא חילקה שלוש מתנות.
 
-**שתי תחנות.** "ראשון לציון יוסף בורג" (תחנה 37) ו"ראשון לציון הרצוג" (תחנה 38). שתיהן בתחום המתחם או בסמוך לו, ושתיהן מחברות את התושבים למרכז גוש דן תוך דקות.
+הראשונה היא שתי תחנות: "ראשון לציון יוסף בורג" ו"ראשון לציון הרצוג". הן יחברו את מי שיגור שם למרכז גוש דן תוך כמה דקות. מי שנסע פעם מראשון לתל אביב בשמונה בבוקר יודע ש"תוך כמה דקות" זה משפט שעד היום נשמע כמו מדע בדיוני.
 
-**רח"ק 5 לפחות.** רח"ק הוא היחס בין שטח הבנייה לשטח הקרקע. רח"ק 5 אומר שעל כל דונם קרקע ייבנו לפחות 5 דונם של שטח בנוי. זה רף מינימום, ומוסדות התכנון רשאים לאשר יותר.
+המתנה השנייה היא רח"ק 5 לפחות. רח"ק זה היחס בין מה שבונים לבין גודל הקרקע. רח"ק 5 אומר שעל כל דונם אדמה ייבנו לפחות 5 דונם של דירות, משרדים וחנויות. וזה רק הרף התחתון. מוסדות התכנון יכולים לאשר גם יותר.
 
-**כ־12,000 יחידות דיור** לצד פארק רובעי גדול. כלומר, שכונה בגודל של עיר קטנה.
+והשלישית: כ־12,000 יחידות דיור לצד פארק רובעי גדול. כלומר, יהיה פארק. רק שעכשיו יהיו לו גם שכנים.
 
-מחקרים על קווי רכבת בעולם מראים שערך הקרקע סביב תחנה עולה משלושה מקורות: הנגישות שהתחנה יוצרת, שינוי הייעוד של הקרקע, ותוספת זכויות הבנייה. ברוב המקומות מקבלים אחד או שניים. בפריימן שלושתם קורים באותו מקום, באותו זמן.
+ועכשיו תחזרו רגע ללונדון. חוקרים שבדקו קווי רכבת בעולם מצאו שהערך של קרקע ליד תחנה מגיע משלושה מקורות: הנגישות שהתחנה נותנת, שינוי הייעוד של הקרקע, ותוספת זכויות בנייה. ברוב המקומות מקבלים אחד מהם, אולי שניים. בפריימן מקבלים את שלושתם באותה חבילה.
 
-אבל תמ"א 70 עשתה עוד משהו, שהרבה פחות אנשים מדברים עליו. היא חילקה את המתחם לשניים.
+אבל תמ"א 70 עשתה בפריימן עוד משהו, שמדברים עליו הרבה פחות. היא חילקה את המתחם לשניים.
 
-## המפה שכל קונה בפריימן צריך להכיר
+## המפה שכדאי לראות לפני שחותמים
 
-לפי תמ"א 70, חלק מהמתחם סומן כאזור פיתוח: מגורים, תעסוקה ומסחר. חלק אחר סומן כאזור ירוק, שטח פתוח. הכלל הראשון פשוט: קונים רק בתוך קו הפיתוח. חלקה באזור הירוק יכולה להיות זולה מאוד, ומסיבה טובה.
+לפי תמ"א 70, חלק מהשטח סומן כאזור פיתוח, שבו יהיו מגורים, תעסוקה ומסחר. חלק אחר סומן כאזור ירוק. ואם יציעו לכם חלקה באזור הירוק במחיר שנראה מצחיק, אל תצחקו. יש לזה סיבה. הכלל הראשון בפריימן: קונים רק בתוך קו הפיתוח.
 
-הכלל השני נוגע לחלק המזרחי של המתחם. הוא מוטה משרדים ולכן שוויו נמוך יותר, והוא גם לא חלק מהתוכנית שהמדינה מקדמת. ככל הנראה הוא יפותח בנפרד, ובהמשך. "בהמשך", כאמור, היא יחידת זמן גמישה.
+הכלל השני נוגע לחלק המזרחי של המתחם. הוא מוטה משרדים, ולכן שווה פחות. חוץ מזה, הוא בכלל לא חלק מהתוכנית שהמדינה מקדמת, וכנראה יפותח בנפרד, מתישהו בהמשך. ו"בהמשך", כמו שכבר הבנו, זו יחידת זמן גמישה מאוד בישראל.
 
-והכלל השלישי הוא זה שמפתיע את רוב הקונים.
+הכלל השלישי הוא זה שמבלבל כמעט את כולם, אז נעבור עליו לאט.
 
-פריימן היא תוכנית של איחוד וחלוקה מחדש. כל החלקות במתחם נכנסות לסל אחד גדול, והתוכנית מחלקת אותן מחדש לפי השווי היחסי של כל אחת. מי שהחזיק קרקע מקבל "מגרש תמורה", אבל לא בהכרח במקום שבו הייתה החלקה שלו.
+פריימן היא תוכנית של איחוד וחלוקה מחדש. תדמיינו שכל בעלי הקרקע במתחם שמים את החלקות שלהם בקופה אחת גדולה. המתכננים מחליטים איפה יעברו הכבישים, איפה יהיה הפארק ואיפה מבני הציבור, ואז מחלקים את מה שנשאר בין כולם, לפי השווי היחסי של מה שכל אחד הכניס. כל אחד מקבל "מגרש תמורה". רק שלא בהכרח איפה שהחלקה שלו הייתה.
 
 > **[גרף 3: איחוד וחלוקה. החלקות לפני, הסל המשותף, ומגרשי התמורה אחרי]**
 
-המשמעות: אי אפשר להסיק שמגרש התמורה יהיה בדיוק במיקום של הקרקע שקניתם. ואי אפשר להסיק שקרקע קרובה לתחנה שווה יותר מקרקע רחוקה ממנה.
+כלומר, אם קניתם חלקה בפינה הכי יפה של המתחם, אין שום הבטחה שהמגרש שתקבלו יהיה באותה פינה. ומאותה סיבה, קרקע קרובה לתחנה לא שווה אוטומטית יותר מקרקע רחוקה ממנה.
 
-ועכשיו, הטעות היקרה שהבטחנו. חלקה שיושבת על התחנה עצמה היא דווקא בעלת סיכון גבוה יותר. היא חשופה להפקעה, או להפקעה זמנית לטובת עבודות המטרו. מי שמשלם פרמיה כדי לקנות "על התחנה", עלול לשלם יותר על קרקע עם יותר סיכון. אנחנו ממליצים להימנע מזה.
+ועכשיו, כמו שהבטחתי, הטעות היקרה. יש אנשים שמשלמים יותר כדי לקנות חלקה שיושבת בדיוק על התחנה, כי זה נשמע הכי בטוח. בפועל, זה הכי פחות בטוח. קרקע שעליה תיבנה התחנה חשופה יותר להפקעה, או לפחות להפקעה זמנית בזמן העבודות. כלומר, אתם משלמים פרמיה, ומקבלים בתמורה יותר סיכון. לא בדיוק העסקה שחלמתם עליה.
 
-## כמה מטרים צריך בפריימן
+## אז כמה אדמה צריך?
 
-כאן נכנס החשבון, ונעשה אותו בזהירות.
+כאן מגיע החלק עם המחשבון, ואני אעשה אותו בזהירות.
 
-דוחות השמאי נכון להיום מדברים על צפיפות של 15 יחידות דיור לדונם ברוטו. דונם הוא 1,000 מטר, ולכן כדי להחזיק את המקבילה ליחידת דיור אחת ממוצעת, מה שנקרא "יחידה תבעית", צריך כ־67 מטר קרקע.
+דוחות השמאי מדברים כרגע על צפיפות של 15 יחידות דיור לדונם ברוטו. דונם הוא 1,000 מטר, אז אם מחלקים, יוצא שכדי להחזיק את המקבילה ליחידת דיור ממוצעת אחת, מה שנקרא בשפה המקצועית "יחידה תבעית", צריך כ־67 מטר קרקע.
 
 > **[גרף 4: דונם אחד מחולק ל־15 יחידות תבעיות, כ־67 מטר כל אחת]**
 
-בחלקה שחלה עליה הפקעה, או שלא כולה נמצאת בתוכנית, צריך יותר מטרים כדי להגיע לאותה יחידה.
+ואם על החלקה חלה הפקעה, או שרק חלק ממנה נכנס לתוכנית, צריך יותר מטרים כדי להגיע לאותה יחידה. די הגיוני.
 
-ומה עם מחירים? כאן אנחנו נעצור. המחיר למטר בפריימן משתנה לפי המיקום בתוך המתחם, לפי המשווק ולפי התזמון, והשוק הזה תנודתי מאוד. מי שנותן לכם היום מספר מדויק לשווי העתידי של הקרקע, יודע משהו שאף שמאי לא יודע. או שהוא מוכר לכם משהו.
+ומה עם מחירים? פה אני עוצר, ובכוונה. המחיר למטר בפריימן תלוי איפה בדיוק במתחם, אצל מי קונים ומתי, והשוק הזה זז מהר. אז אם מישהו כבר היום נותן לכם מספר מדויק לכמה הקרקע תהיה שווה בעוד כמה שנים, יש שתי אפשרויות. או שהוא יודע משהו שאף שמאי בארץ לא יודע, או שהוא מנסה למכור לכם משהו. אני מהמר על השנייה.
 
-## השאלה האמיתית: מי מזיז את פריימן
+## בחזרה לשאלה החשובה: מי מזיז את זה?
 
-הבטחנו לחזור לשאלה מה מבדיל בין מי שהרוויח ממטרו לבין מי שעדיין מחכה. הנה התשובה: קרקע לא הופכת לדירות לבד. מישהו צריך לדחוף אותה, בכל שלב, ולאורך שנים.
+הבטחתי לחזור לשאלה מה מבדיל בין דון ריילי לבין כל מי שעדיין עומד ומחכה ליד תחנה שלא הגיעה. התשובה, כמעט תמיד, היא זו: קרקע לא הופכת לשכונה לבד. מישהו צריך לדחוף אותה, בכל שלב, במשך שנים, מול ועדות, שמאים ויזמים.
 
-ברמת המדינה, בפריימן יש מי שדוחף. דירה להשכיר היא גוף ממשלתי עם סמכויות יזמות תכנונית, והחלטת הממשלה מדצמבר 2024 שמה את המתחם במסלול המועדף. זה לא מבטיח לוח זמנים, אבל זה ההבדל בין תוכנית שמישהו אחראי עליה לבין תוכנית שכולם מחכים לה.
+בפריימן, ברמת המדינה, יש מי שדוחף. דירה להשכיר מקדמת את התכנון, והחלטת הממשלה שמה את המתחם במסלול המהיר. זה לא נותן לוח זמנים מובטח, אף אחד לא נותן כזה, אבל זה ההבדל בין תוכנית שיש לה אבא לבין תוכנית יתומה.
 
-ברמת הקונה, כאן רוב האנשים לא מסתכלים. עסקת קרקע כאן היא קודם כל כרטיס כניסה להסכם שיתוף בין בעלי הקרקע. ושלושה דברים קובעים כמה הכרטיס הזה שווה:
+ויש עוד רמה, וכאן רוב הקונים לא מסתכלים בכלל. כשאתם קונים קרקע בפריימן, מה שאתם באמת קונים הוא כרטיס כניסה להסכם שיתוף עם עוד בעלי קרקע. ושלושה דברים קובעים אם הכרטיס הזה שווה משהו:
 
-1. **גודל ההסכם.** הסכם גדול, שמכיל לפחות 50 עד 60 יחידות תבעיות, מחזיק כוח מול מוסדות התכנון ומול יזמים בהמשך.
-2. **נציגות תכנונית מקצועית.** מי שילווה את הקונים בכל שלב, מהתכנון ועד הקצאת מגרשי התמורה.
-3. **ניסיון.** מישהו שכבר הוביל פרויקטים כאלה עד הסוף, ולא רק התחיל אותם.
+- **גודל.** הסכם רציני מכיל לפחות 50 עד 60 יחידות תבעיות. בקבוצה קטנה מדי, אף אחד לא ממש שומע אתכם.
+- **ליווי.** נציגות תכנונית מקצועית, שיודעת לעבוד מול מוסדות התכנון ולשמור על האינטרס שלכם בכל שלב.
+- **ניסיון.** מישהו שכבר לקח פרויקטים כאלה עד הסוף, ולא רק התחיל אותם.
 
-מה קורה כשהחוליה הזו חסרה? אחת מחברות הקרקע הגדולות בצפון אמריקה גייסה מיליארדי דולרים מעשרות אלפי משקיעים, ברחבי העולם. הקרקע הייתה שם. מי שיזיז אותה, פחות. ב־2017 חלק מחברות הקבוצה נכנסו להליך של הגנה מנושים, ופנסיונר אחד שהשקיע 41 אלף דולר מצא את עצמו עם כ־9,300.
+רוצים לראות מה קורה כשהחוליה הזו חסרה? אחת מחברות הקרקע הגדולות בצפון אמריקה גייסה מיליארדי דולרים מעשרות אלפי משקיעים בכל העולם. הקרקעות היו אמיתיות, המפות היו יפות, ומי שיהפוך אותן לשכונות פשוט לא היה שם. ב־2017 חלק מחברות הקבוצה נכנסו להליך של הגנה מפני נושים, ופנסיונר אחד שהשקיע שם 41 אלף דולר גילה שנשארו לו כ־9,300.
 
-אז לפני שאתם שואלים "איפה הקרקע", תשאלו "מי מאחוריה".
+אז הטיפ הכי חשוב במאמר הזה הוא בעצם שאלה. לפני ששואלים "איפה הקרקע", שואלים "מי מאחוריה".
 
-## חמש שאלות לפני שקונים מטר בפריימן
+## צ'קליסט קצר לפני שחותמים
 
-1. האם החלקה נמצאת בתוך קו הפיתוח של תמ"א 70, ולא באזור הירוק?
-2. האם היא בחלק המזרחי, מוטה המשרדים, שלא נכלל בתוכנית שהמדינה מקדמת?
-3. האם היא יושבת על אחת מתחנות המטרו?
-4. האם חלה עליה הפקעה, וכמה מטרים צריך בפועל כדי להגיע ליחידה תבעית שלמה?
-5. מי מוביל את הקבוצה, כמה יחידות יש בהסכם השיתוף, ומה הוא השלים בעבר?
+אם אתם שוקלים לקנות בפריימן, הנה חמש שאלות שכדאי שיהיו לכם תשובות עליהן. רצוי בכתב.
 
-## בחזרה ללונדון
+1. האם החלקה בתוך קו הפיתוח של תמ"א 70, או באזור הירוק?
+2. האם היא בחלק המזרחי, זה של המשרדים, שלא נכלל בתוכנית של המדינה?
+3. האם היא יושבת בדיוק על אחת התחנות?
+4. האם יש עליה הפקעה, וכמה מטרים צריך בפועל כדי להגיע ליחידה תבעית שלמה?
+5. מי מוביל את הקבוצה, כמה יחידות יש בהסכם, ומה הוא כבר השלים בעבר?
 
-דון ריילי כתב ספר שלם כדי להתלונן שהקרקע שלו התעשרה בלי שעשה דבר. בלונדון של שנות התשעים זה עבד ככה: המדינה בנתה, ובעלי הקרקע ישבו בבית.
+## ובחזרה ללונדון
 
-מתחם פריימן ראשון לציון עובד אחרת. יש בו תחנות מאושרות, תוכנית ארצית וחברה ממשלתית שמקדמת אותו. אבל בין שטח שסומן פעם כפארק לבין שכונה של 12,000 דירות, מישהו יצטרך לעשות את העבודה. ואת זהות ה"מישהו" הזה כדאי לבדוק לפני שחותמים, לא אחרי.
+דון ריילי, אם אתם זוכרים, התעשר בלי להזיז אצבע, ואז כתב ספר שלם כדי להתלונן על זה. ככה זה עבד בלונדון של שנות התשעים: המדינה בנתה, ובעלי הקרקע ישבו בבית וחיכו.
 
-את התחנות המדינה כבר אישרה. את השאר תצטרכו לבדוק בעצמכם.
+מתחם פריימן ראשון לציון לא יעבוד ככה. יש בו כבר תחנות מאושרות, תוכנית ארצית וחברה ממשלתית שמקדמת אותו. אבל בין שטח שסומן פעם כפארק לבין שכונה של 12,000 דירות, מישהו יצטרך לעשות הרבה עבודה. וכדאי לדעת מי זה המישהו הזה לפני שחותמים, ולא אחרי.
+
+את התחנות המדינה כבר אישרה. את כל השאר תצטרכו לבדוק בעצמכם. ואם בעוד עשרים שנה תרצו לכתוב על זה ספר, אנחנו לא נתלונן.
 
 ---
 

diff --git a/templates/article-template.md b/templates/article-template.md
@@ -99,7 +99,23 @@
 
 ---
 
-## שלב ג: כללי כתיבה
+## שלב ג: הקול
+
+הקורא צריך להרגיש שחבר שמבין בנדל"ן מספר לו את זה, ושכיף לו לקרוא.
+
+- **מדברים אל הקורא:** "תדמיינו", "תסתכלו רגע", "אם לא שמעתם על..., זה בסדר".
+- **כל פסקה מתחברת לבאה.** משפט אחרון שמושך קדימה, או משפט ראשון שקושר אחורה
+  ("ועכשיו תחזרו רגע ללונדון", "כמו שהבטחתי").
+- **מושג מקצועי מקבל תרגום אנושי:** "אזור נופש מטרופוליני. או בשפה של בני אדם: פארק עתידי."
+- **הומור מתוך החיים בישראל,** לא בדיחות כלליות:
+  "בתכנון הישראלי, חמישה חודשים זה בערך הזמן שלוקח לקבוע פגישה."
+- **קולבקים:** פרט מהפתיח חוזר באמצע ובסוף, ובסיום יש עקיצה שסוגרת אותו.
+- **משפט קצר אחרי משפט ארוך.** "שתיים. באותו מתחם."
+- **הבטחות לקורא** ("אני מבטיח שנגיע לזה") ועמידה בהן.
+
+---
+
+## שלב ד: כללי כתיבה
 
 ### אסור
 - מקף ארוך (—) או מקף בינוני (–). משתמשים בנקודה, פסיק או נקודתיים.
